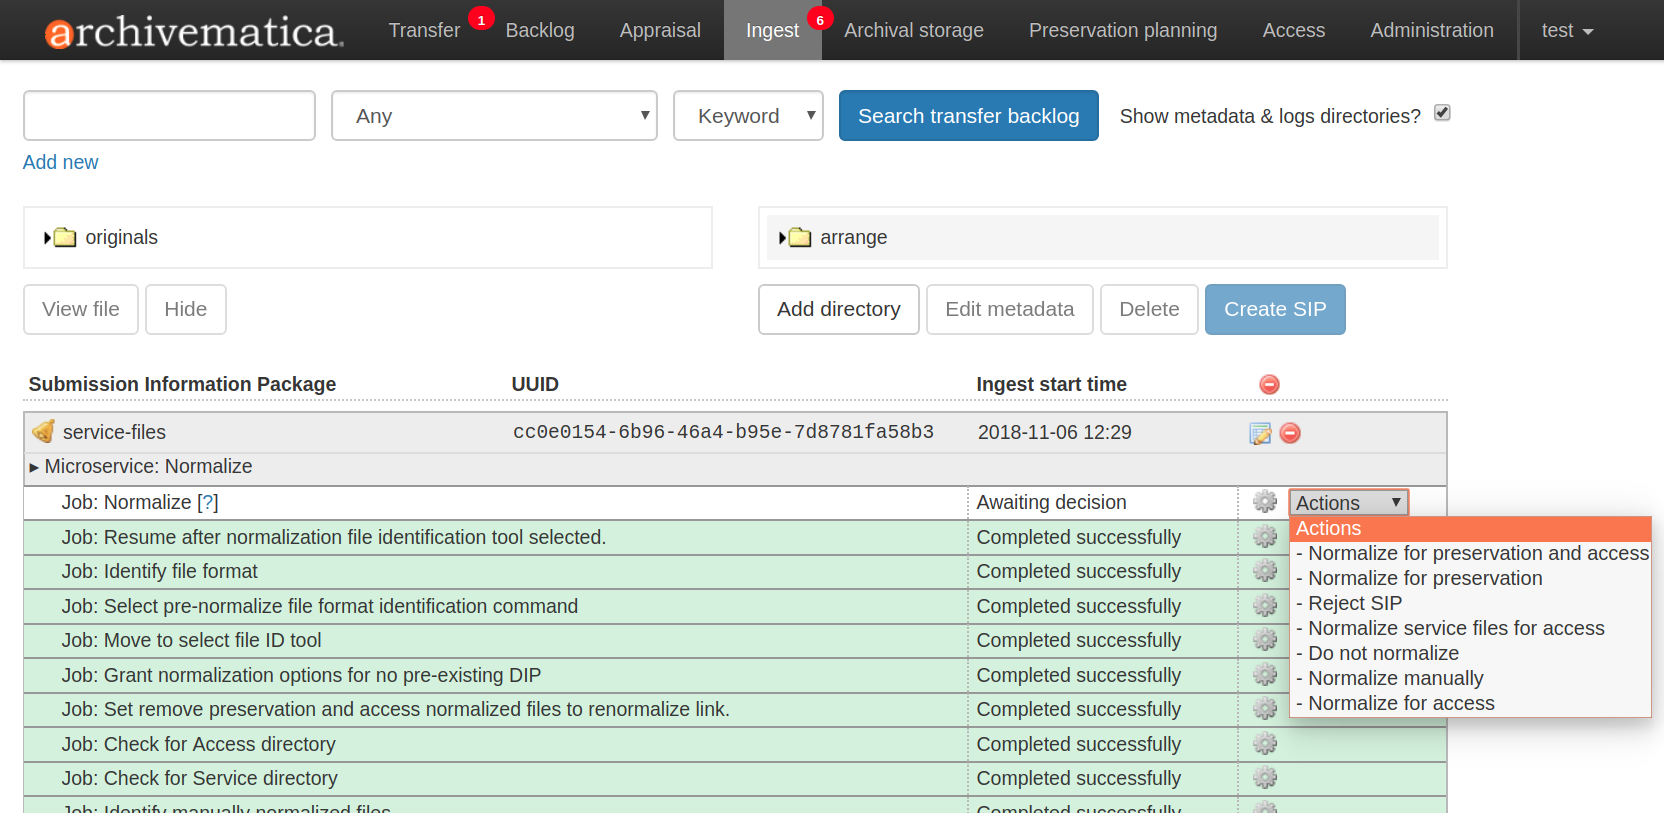
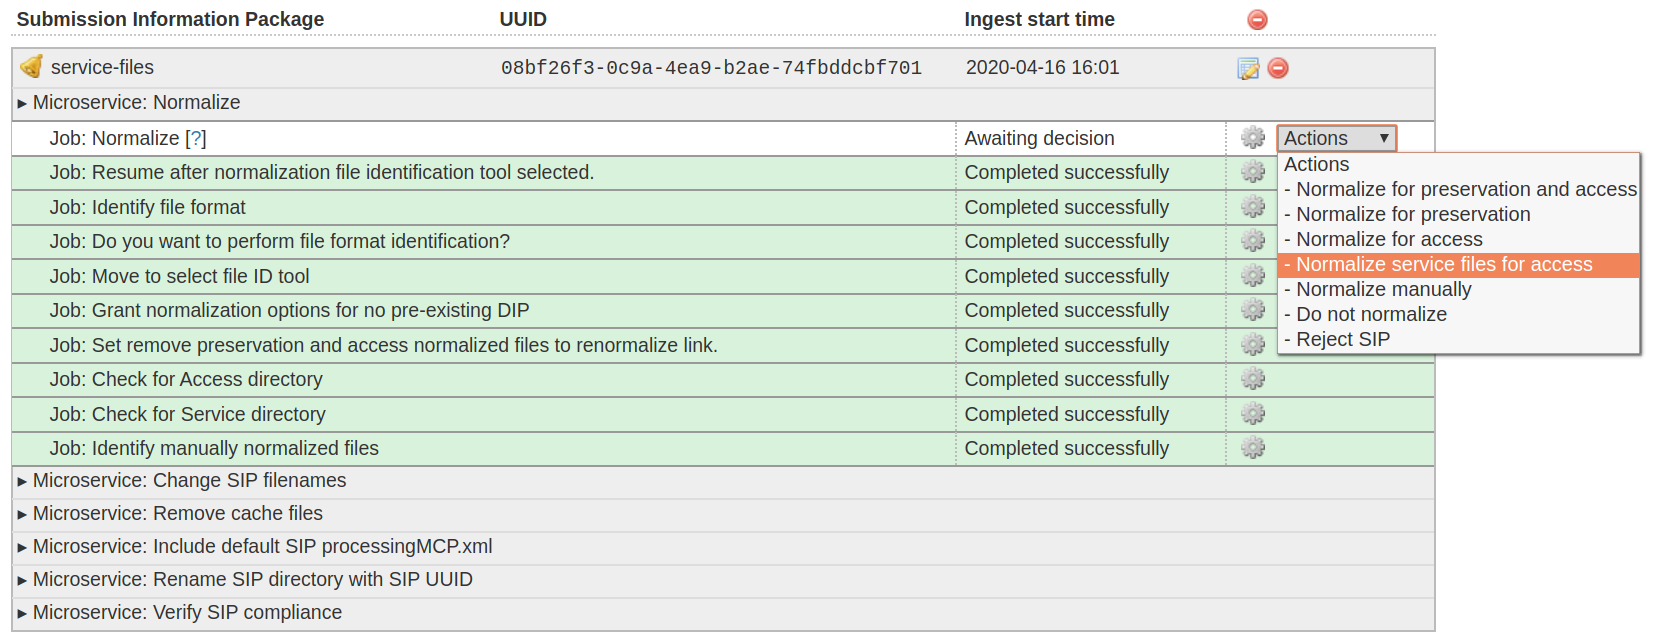
Updates screenshots for 1.11
I looked through every page in the documentation for screenshots that
were outdated according to the following:

* Drop-down menu ordering (archivematica/Issues#891)
* Changes to the administration tab sidebar menu
* Arrangement panes that used to be on the Ingest tab
* And anything else that's had UI improvements since the screenshot was
taken

I'm sure there are others but this will do for now!

I've also made a few formatting changes and clarifications, though I
tried to leave those for other PRs.

diff --git a/user-manual/ingest/ingest.rst b/user-manual/ingest/ingest.rst
@@ -49,7 +49,7 @@ Create a SIP
    Archivematica should normalize the SIP. Choose the option most suitable for
    your workflow.
 
-   .. figure:: images/Normalize1.*
+   .. figure:: images/choose-normalize-option.*
       :align: center
       :figwidth: 80%
       :width: 100%
@@ -177,7 +177,7 @@ the CSV through the user interface <metadata-csv-ui>`.
 #. While on the Transfer or Ingest tab, click on the metadata template icon to
    the right of the transfer name.
 
-   .. figure:: images/MetadataIcon2.*
+   .. figure:: images/metadata-icon.*
       :align: center
       :figwidth: 80%
       :width: 100%
@@ -188,7 +188,7 @@ the CSV through the user interface <metadata-csv-ui>`.
 #. This will take you to the SIP detail page. Under the *Metadata* heading,
    click **Add**.
 
-   .. figure:: images/SIPDetailPanel2.*
+   .. figure:: images/sip-detail-panel.*
       :align: center
       :figwidth: 80%
       :width: 100%
@@ -214,7 +214,7 @@ the CSV through the user interface <metadata-csv-ui>`.
    click **Delete**. To add more descriptive metadata, click the **Add** button
    below the list.
 
-   .. figure:: images/Metadatalist1.*
+   .. figure:: images/descriptive-metadata-list.*
       :align: center
       :figwidth: 60%
       :width: 100%
@@ -251,7 +251,7 @@ to structure metadata CSV files, see :ref:`Import metadata <import-metadata>`.
 #. While on the Ingest tab, click on the metadata template icon to the right of
    the transfer name.
 
-   .. figure:: images/MetadataIcon2.*
+   .. figure:: images/metadata-icon.*
       :align: center
       :figwidth: 80%
       :width: 100%
@@ -262,7 +262,7 @@ to structure metadata CSV files, see :ref:`Import metadata <import-metadata>`.
 #. This will take you to the SIP detail page. Under the *Metadata* heading,
    click **Add metadata files**.
 
-   .. figure:: images/SIPDetailPanel2.*
+   .. figure:: images/sip-detail-panel.*
       :align: center
       :figwidth: 80%
       :width: 100%
@@ -305,7 +305,7 @@ this point, it is no longer possible to add metadata to the SIP.
 #. While on the Transfer or Ingest tab, click on the metadata template icon to
    the right of the transfer name.
 
-   .. figure:: images/MetadataIcon2.*
+   .. figure:: images/metadata-icon.*
       :align: center
       :figwidth: 80%
       :width: 100%
@@ -316,7 +316,7 @@ this point, it is no longer possible to add metadata to the SIP.
 #. This will take you to the SIP detail panel. On the left-hand side, under
    *Rights*, click **Add**.
 
-   .. figure:: images/SIPDetailPanel2.*
+   .. figure:: images/sip-detail-panel.*
       :align: center
       :figwidth: 80%
       :width: 100%
@@ -328,7 +328,7 @@ this point, it is no longer possible to add metadata to the SIP.
    button at the bottom of the screen, or click **Next** if you are finished and
    ready to move on to the second page of data entry.
 
-   .. figure:: images/CopyrightNext.*
+   .. figure:: images/rights-form-1.*
       :align: center
       :figwidth: 80%
       :width: 100%
@@ -339,7 +339,7 @@ this point, it is no longer possible to add metadata to the SIP.
 #. Enter act information and the associated grants/restrictions and save the
    data by clicking **Save**.
 
-   .. figure:: images/RightsPg2AddAct.*
+   .. figure:: images/rights-form-2.*
       :align: center
       :figwidth: 80%
       :width: 100%
@@ -350,7 +350,7 @@ this point, it is no longer possible to add metadata to the SIP.
 #. When you click **Save** on the acts page, you will be given the option to add
    another act and further grants/restrictions.
 
-   .. figure:: images/Createnewgrant.*
+   .. figure:: images/create-new-grant.*
       :align: center
       :figwidth: 60%
       :width: 100%
@@ -362,7 +362,7 @@ this point, it is no longer possible to add metadata to the SIP.
    entry in the list page. You can add more rights by clicking **Add** again, or
    edit or delete existing rights from this page.
 
-   .. figure:: images/RightsPanelwRights.*
+   .. figure:: images/rights-metadata-list.*
       :align: center
       :figwidth: 75%
       :width: 100%
@@ -390,67 +390,76 @@ manual.
    a bell icon next to it. Select one of the normalization options from the
    Actions drop-down menu:
 
-.. figure:: images/NormPresAccess2.*
-   :align: right
-   :figwidth: 50%
-   :width: 100%
-   :alt: Selecting a normalization option
+   .. figure:: images/choose-normalize-option.*
+      :align: center
+      :figwidth: 50%
+      :width: 100%
+      :alt: Selecting a normalization option
 
-   Selecting a normalization option
+      Selecting a normalization option
 
-* **None** - the user is prompted for a decision.
-* **Normalize for preservation and access** - creates preservation copies of the
-  objects plus access copies which will be used to generate the DIP.
-* **Normalize for preservation** - creates preservation copies only. No access
-  copies are created and no DIP will be generated.
-* **Normalize manually** - see :ref:`Manual Normalization <manual-norm>` for
-  more information.
-* **Do not normalize** - the AIP will contain originals only. No preservation or
-  access copies are generated and no DIP will be generated.
-* **Normalize service files preservation** - see :ref:`Transferring material
-  with service (mezzanine) files <transfer-service-files>` for more
-  information.
-* **Normalize for access** - the AIP will contain originals only. No
-  preservation copies will be generated. Access copies will be created which
-  will be used to generate the DIP.
+   * **Normalize for preservation and access** - creates preservation copies of the
+     objects plus access copies which will be used to generate the DIP.
+   * **Normalize for preservation** - creates preservation copies only. No access
+     copies are created and no DIP will be generated.
+   * **Normalize for access** - the AIP will contain originals only. No
+     preservation copies will be generated. Access copies will be created which
+     will be used to generate the DIP.
+   * **Normalize service files for access** - see :ref:`Transferring material
+     with service (mezzanine) files <transfer-service-files>` for more
+     information.
+   * **Normalize manually** - see :ref:`Manual Normalization <manual-norm>` for
+     more information.
+   * **Do not normalize** - the AIP will contain originals only. No preservation or
+     access copies are generated and no DIP will be generated.
+   * **Reject SIP** - the ingest will be cancelled.
 
-Note that depending on the setup of your transfer, you may not see all of the
-options listed above.
+   Note that depending on the setup of your transfer, you may not see all of the
+   options listed above.
 
 2. Once normalization is completed you can review the results in the
    normalization report. Click on the report icon next to the Actions drop-down
    menu.
 
-.. figure:: images/ReportIcon2.*
-   :align: center
-   :figwidth: 80%
-   :width: 100%
-   :alt: Location of the report icon to open the normalization report
+   .. figure:: images/normalization-report-icon.*
+      :align: center
+      :figwidth: 80%
+      :width: 100%
+      :alt: Location of the report icon to open the normalization report
 
-   Click on the report icon to open the normalization report
+      Click on the report icon to open the normalization report
 
-The report shows what has been normalized and what is already in an acceptable
-preservation and access format.
+   The report provides detailed information about whether normalization was
+   atttempted and for what purpose. Pink shading indicates that a file has not
+   been normalized to an accepted preservation or access format.
 
-.. image:: images/NormReport1.*
-   :align: center
-   :width: 80%
-   :alt: Normalization report
+   .. image:: images/normalization-report.*
+      :align: center
+      :width: 80%
+      :alt: Normalization report
 
 3. You may review the normalization results in a new tab by clicking on Review.
+
+   .. figure:: images/review-normalized-files.*
+      :align: center
+      :figwidth: 80%
+      :width: 100%
+      :alt: Review normalization results in new tab
+
+      Review normalization results in new tab
+
    If your browser has plug-ins to view a file, you may open it in another tab
    by clicking on it. If you click on a file and your browser cannot open it, it
    will download locally so you can view it using the appropriate software on
    your machine.
 
-.. figure:: images/ReviewNorm1.*
-   :align: center
-   :figwidth: 80%
-   :width: 100%
-   :alt: Review normalization results in new tab
+   .. figure:: images/review-normalization.*
+      :align: center
+      :figwidth: 80%
+      :width: 100%
+      :alt: Review normalization results in new tab
 
-   Review normalization results in new tab
-
+      Review normalization results in new tab
 
 4. Approve normalization in the Actions drop-down menu to continue processing
    the SIP. You may also Reject the SIP or re-do normalization. If you see

diff --git a/user-manual/transfer/transfer.rst b/user-manual/transfer/transfer.rst
@@ -92,7 +92,7 @@ area. Several :ref:`microservices <microservices>` run on the transferred
 material to prepare it to become a SIP. The list of microservices should be read
 from bottom to top.
 
-.. image:: images/transfer-microservices-1.8.*
+.. image:: images/transfer-microservices-1-11.*
    :align: center
    :width: 80%
    :alt: Image shows the many microservices that run on a standard transfer in Archivematica 1.8
@@ -560,14 +560,14 @@ Archivematica's microservice architecture, please see :ref:`microservices
 
 Some microservices occur with no human intervention, while others will prompt
 the user for a decision. An early example is the *Identify file format*
-microservice, which prompts the user to decide which tool to use to identify
-file formats.
+microservice, which prompts the user to decide if they would like to run a file
+format identification tool on the files in the transfer.
 
-.. figure:: images/select-file-id-tool.*
+.. figure:: images/select-file-id.*
    :align: center
    :figwidth: 60%
    :width: 100%
-   :alt: For the Identify file format microservice, the user is given the option between various file ID tools
+   :alt: A decision dropdown menu is shown at "Job: Do you want to perform file format identification?". The options are "Yes" or "No".
 
 Note that it is possible to automate all decision points in Archivematica. For
 more information, see :ref:`Processing configuration <dashboard-processing>`.

diff --git a/user-manual/administer/dashboard-admin.rst b/user-manual/administer/dashboard-admin.rst
@@ -671,11 +671,11 @@ configuration instructions.
 **Levels of description**
 
 You can fetch levels of description from AtoM so that they can be used for
-:ref:`SIP arrangement <arrangement>`. Click on Levels of Description, then
-Fetch from AtoM to get an updated list from the AtoM levels of description
-taxonomy.
+:ref:`SIP arrangement <arrangement>`. From the AtoM/Binder page in the
+Administration tab, click on *Levels of Description*, then *Fetch from AtoM* to
+get an updated list from the AtoM levels of description taxonomy.
 
-.. image:: images/AtoM_lod.*
+.. image:: images/atom-levels-of-description.*
    :align: center
    :width: 80%
    :alt: Levels of description from AtoM shown in Archivematica administration screen
@@ -711,7 +711,7 @@ PREMIS agent
 
 The PREMIS agent name and code can be set via the administration interface.
 
-.. image:: images/PREMISAdmin.*
+.. image:: images/premis-agent.*
    :align: center
    :width: 80%
    :alt: PREMIS agent settings in Administration tab

diff --git a/user-manual/access/access.rst b/user-manual/access/access.rst
@@ -362,15 +362,15 @@ To store a DIP:
 
 .. _review-dip:
 
-Review/download DIP
--------------------
+Review and download DIPs
+------------------------
 
 Regardless of the access path chosen (an integrated access system, or storing
 the DIP) the dashboard will present the operator with the option of reviewing
 and downloading the DIP objects. When the Upload DIP microservice is complete,
 a "review" link will appear:
 
-.. image:: images/ReviewDIP.*
+.. image:: images/review-dip.*
    :align: center
    :width: 80%
    :alt: Click on the "review" link in the Upload DIP microservice
@@ -380,7 +380,7 @@ which can then be navigated to locate any DIP in this directory. As shown below,
 when expanded, the DIP objects, thumbnails and METS files can be viewed or
 downloaded within the browser window.
 
-.. image:: images/DownloadDIP.*
+.. image:: images/download-dip.*
    :align: center
    :width: 80%
    :alt: Download DIP screen showing a DIP directory expanded.

diff --git a/user-manual/access/contentdm.rst b/user-manual/access/contentdm.rst
@@ -155,7 +155,7 @@ Create DIP for CONTENTdm
 To review the DIP in the dashboard and download individual DIP objects and/or
 the tab file, click "review":
 
-.. image:: images/ReviewDIP.*
+.. image:: images/review-dip.*
    :align: center
    :width: 80%
    :alt: Click "review" in Upload DIP microservice to access DIP objects and tab file
